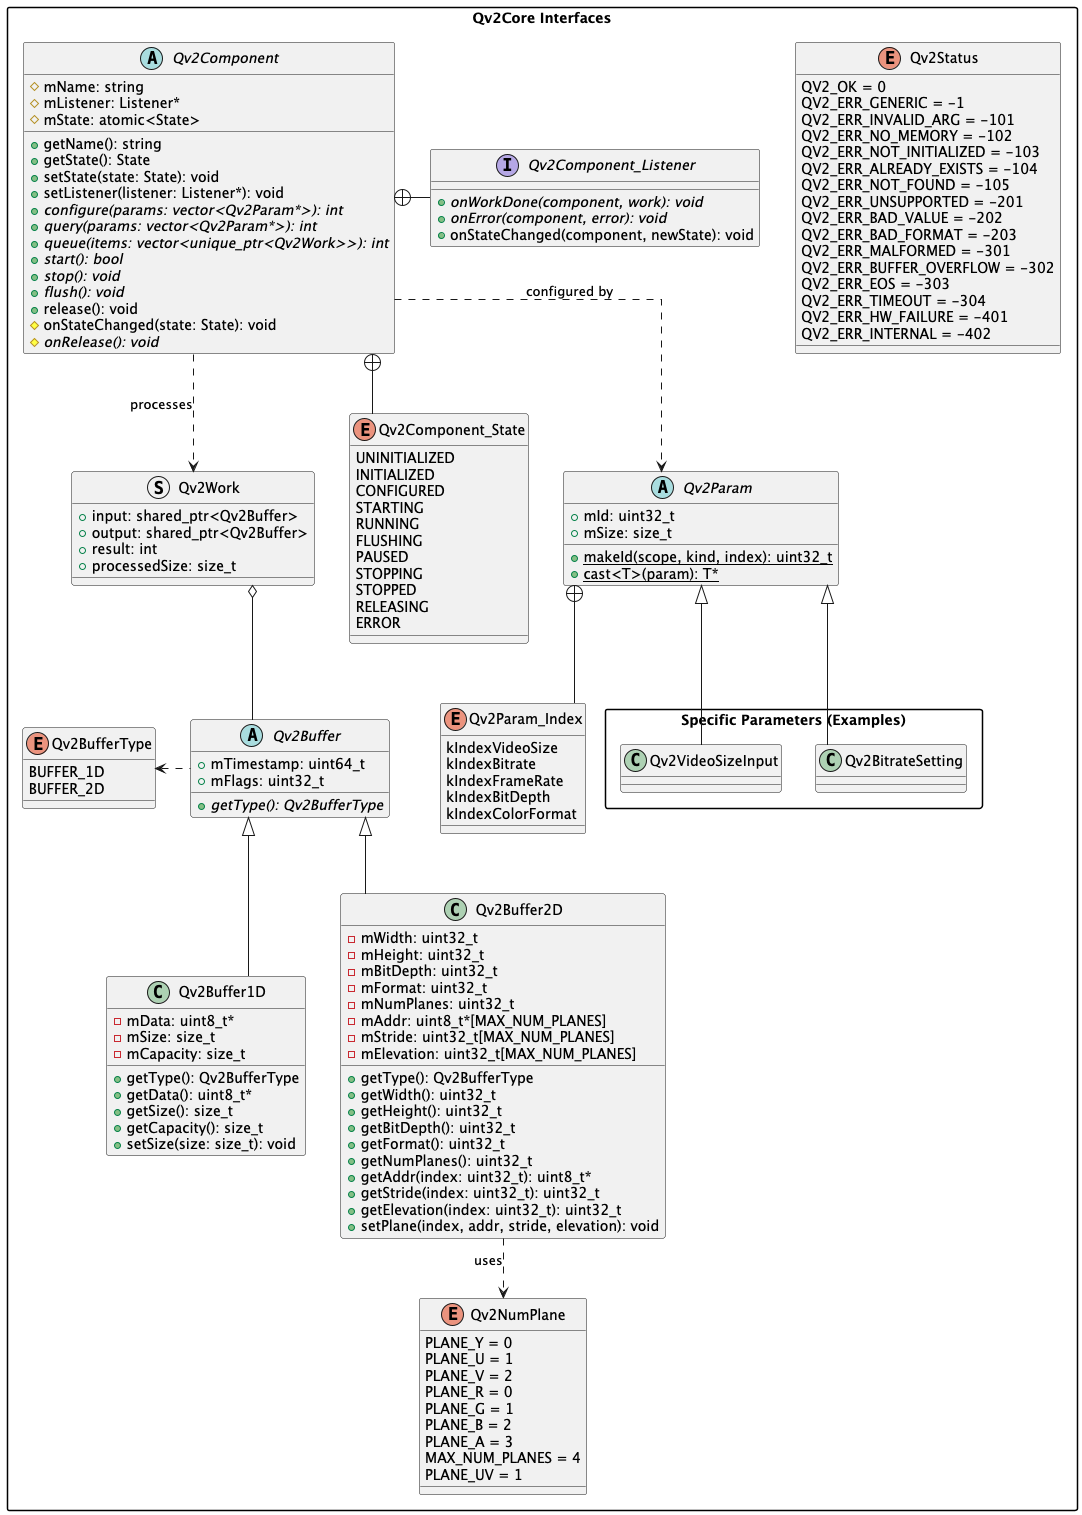
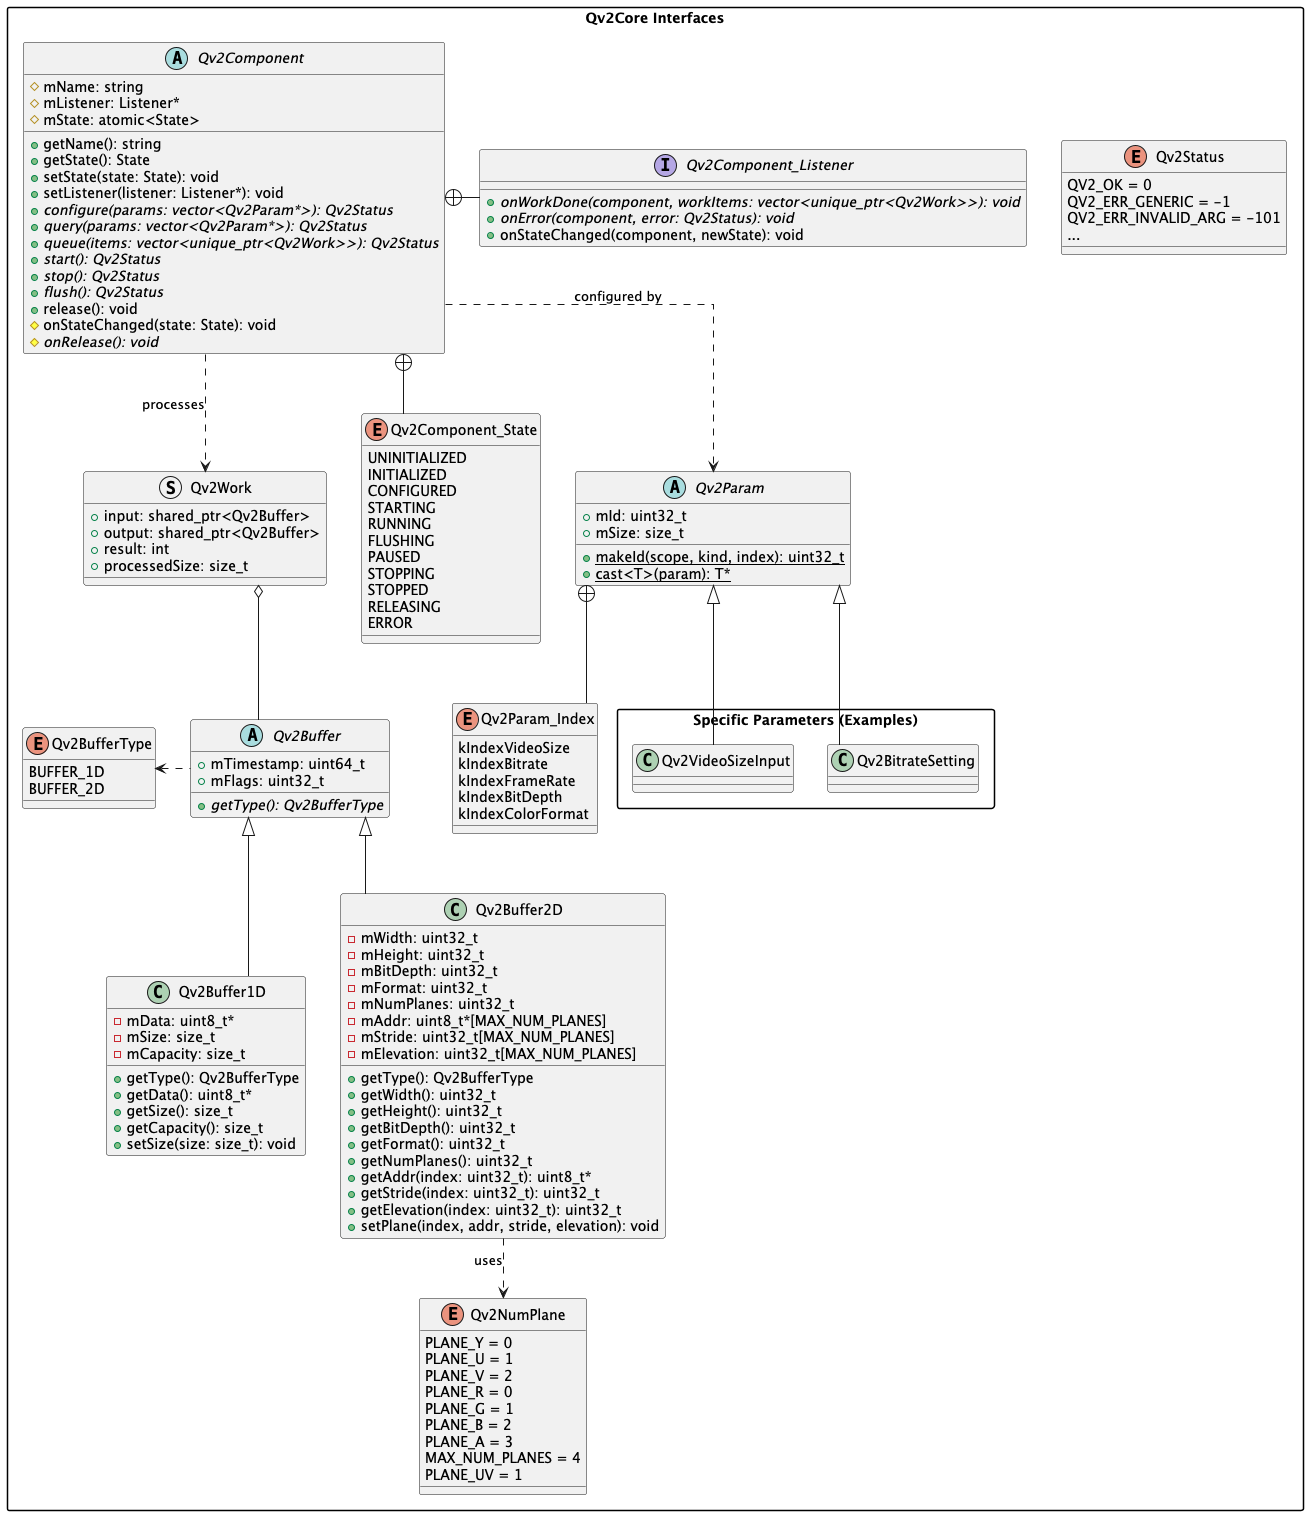
- Update th Qv2Core Interfaces

diff --git a/codecs/Qv2Core/Qv2Component.h b/codecs/Qv2Core/Qv2Component.h
@@ -28,9 +28,9 @@ public:
     class Listener {
     public:
         virtual ~Listener() = default;
-        virtual void onWorkDone(std::weak_ptr<Qv2Component> component, std::unique_ptr<Qv2Work> work) = 0;
-        virtual void onError(std::weak_ptr<Qv2Component> component, int error) = 0;
-        virtual void onStateChanged(std::weak_ptr<Qv2Component> component, State newState) {}
+        virtual void onWorkDone(std::weak_ptr<Qv2Component> component, std::vector<std::unique_ptr<Qv2Work>> workItems) = 0;
+        virtual void onError(std::weak_ptr<Qv2Component> component, Qv2Status error) = 0;
+        virtual void onStateChanged(std::weak_ptr<Qv2Component> component, State newState) = 0;
     };
 
     virtual ~Qv2Component() = default;
@@ -50,13 +50,13 @@ public:
 
     void setListener(Listener* listener) { mListener = listener; }
 
-    virtual int configure(const std::vector<Qv2Param*>& params) = 0;
-    virtual int query(std::vector<Qv2Param*>& params) const = 0;
-    virtual int queue(std::vector<std::unique_ptr<Qv2Work>> items) = 0;
+    virtual Qv2Status configure(const std::vector<Qv2Param*>& params) = 0;
+    virtual Qv2Status query(std::vector<Qv2Param*>& params) const = 0;
+    virtual Qv2Status queue(std::vector<std::unique_ptr<Qv2Work>> items) = 0;
     
-    virtual int start() = 0;
-    virtual int stop() = 0;
-    virtual int flush() = 0;
+    virtual Qv2Status start() = 0;
+    virtual Qv2Status stop() = 0;
+    virtual Qv2Status flush() = 0;
     
     void release() {
         if (mState == RUNNING) stop();
@@ -67,7 +67,7 @@ public:
     }
 
 protected:
-    virtual void onStateChanged(State state) {}
+    virtual void onStateChanged(State state) = 0;
     virtual void onRelease() = 0;
 
     std::string mName;

diff --git a/codecs/Qv2Core/Qv2Buffer.h b/codecs/Qv2Core/Qv2Buffer.h
@@ -45,8 +45,8 @@ enum Qv2NumPlane : uint32_t {
     PLANE_G = 1,
     PLANE_B = 2,
     PLANE_A = 3,
-    MAX_NUM_PLANES = 4,
     PLANE_UV = 1,
+    MAX_NUM_PLANES = 4,
 };
 
 class Qv2Buffer2D : public Qv2Buffer {
